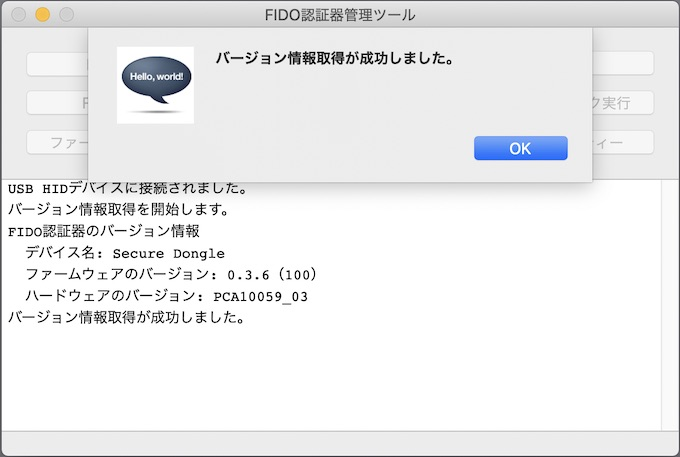
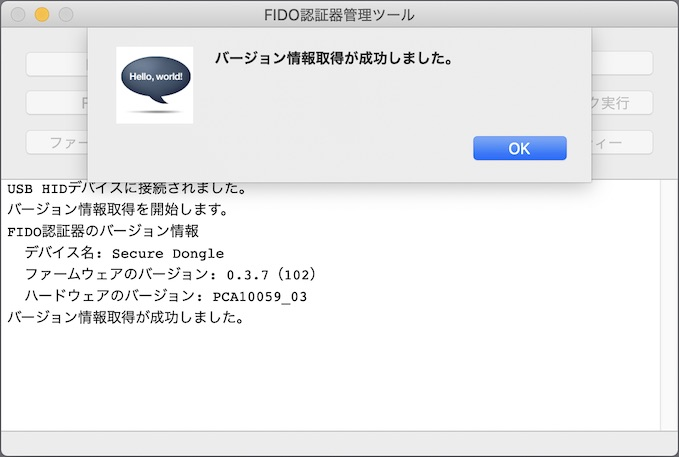
ドキュメントを更新
・手順書のリンクを修正
・ファームウェアバージョンに関する記述／画像を差し替え
・RTCCの電池装着に関する記述を追加

diff --git a/MaintenanceTool/macOSApp/RTCC_SETTINGS.md b/MaintenanceTool/macOSApp/RTCC_SETTINGS.md
@@ -14,7 +14,12 @@
 
 <img src="../../FIDO2Device/MDBT50Q_Dongle/pcb_rev2_2/assets/0001.jpg" width="300">
 
-[注1] MDBT50Q Dongle（rev2.2）以降の認証器をご使用願います。rev2.2より前の認証器では、時刻設定ができません。
+MDBT50Q Dongleの背面にあるボタン電池ケースに、電池が入っていることを必ず確認します。[注2]
+
+<img src="../../FIDO2Device/MDBT50Q_Dongle/pcb_rev2_2/assets/0010.jpg" width="300">
+
+[注1] MDBT50Q Dongle（rev2.2）以降の認証器をご使用願います。rev2.2より前の認証器では、時刻設定ができません。<br>
+[注2] MDBT50Q Dongleに装着した電池から、電源が供給され続けることにより、設定した時刻が保持される機構となっているため、ひとたび時刻設定したMDBT50Q Dongleからは、電池を外さないようお願いします。
 
 #### 管理ツールを導入
 

diff --git a/CCID/BUILDCCIDDRV.md b/CCID/BUILDCCIDDRV.md
@@ -85,7 +85,7 @@ bash-3.2$
 
 #### ソースコードを取得
 
-下記サイトから[ソースコード（`ccid-1.5.1.tar.bz2`）](https://ccid.apdu.fr/files/ccid-1.5.1.tar.bz2)をダウンロードします。
+下記サイトからソースコード（`ccid-1.5.1.tar.bz2`）をダウンロードします。
 - <b>[CCID free software driver](https://ccid.apdu.fr)</b>
 
 サイト[`https://ccid.apdu.fr`](https://ccid.apdu.fr)を表示し、青い「Download」ボタンをクリックします。
